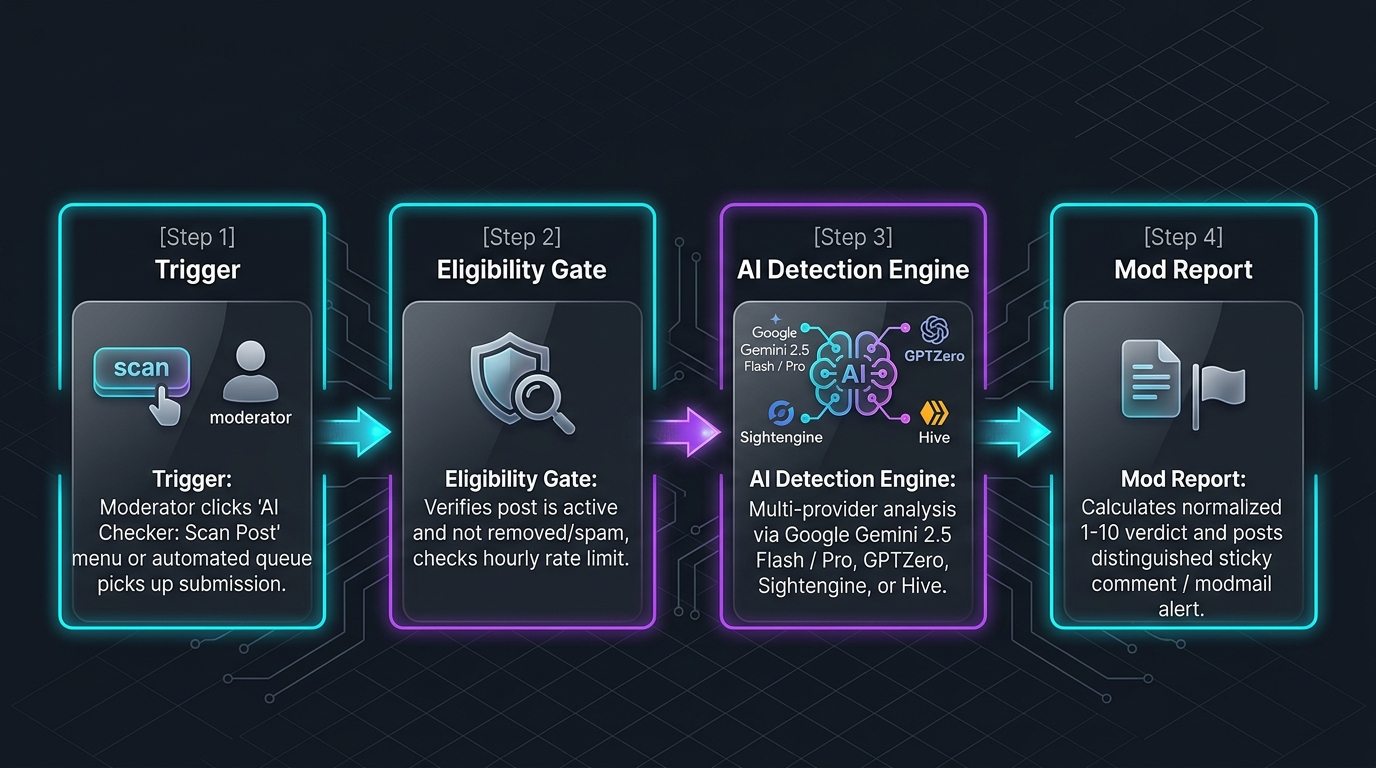
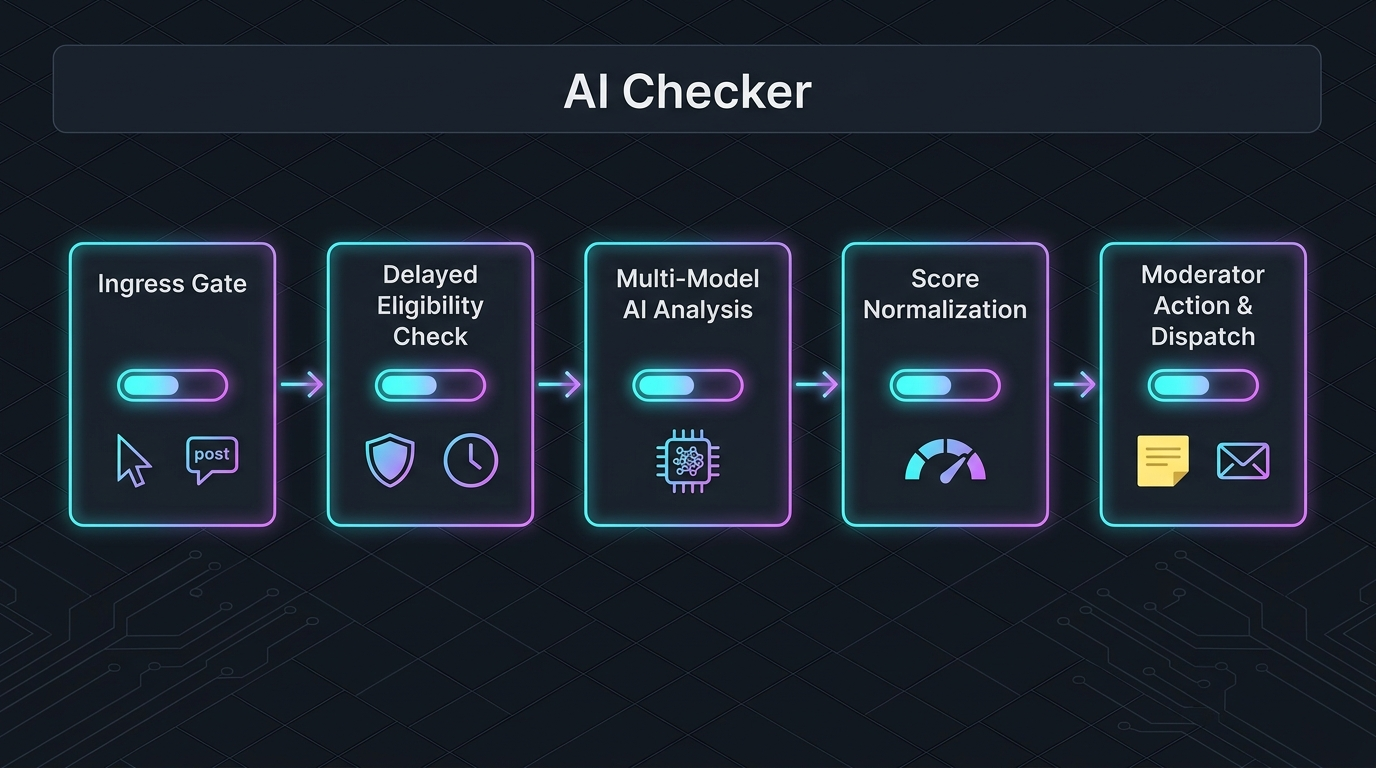
chore: update assets for ai-checker v0.0.84

Changed region(s): [[0.0312, 0.25, 0.9688, 0.875], [0.4062, 0.0938, 0.5938, 0.1562]]

diff --git a/ai-checker/readme.html b/ai-checker/readme.html
@@ -31,11 +31,12 @@
 <p>---</p>
 <h2>How It Works</h2>
 <p><a href="https://raw.githubusercontent.com/grantdb/reddit-app-legal/main/assets/flowcharts/ai-checker-flowchart.png">Logic Flowchart</a></p>
-<h3>Your Four-Step Workflow</h3>
-<p>1. <strong>Trigger</strong>: A moderator clicks <strong>AI Checker: Scan Post</strong> from a post menu, or auto-scan picks up a new submission.</p>
-<p>2. <strong>Verify</strong>: AI Checker confirms post eligibility, active status, and community hourly scan quota.</p>
-<p>3. <strong>Analyze</strong>: Post text or image media is transmitted to the configured AI analysis provider.</p>
-<p>4. <strong>Report</strong>: The returned confidence metric is normalized to a 1–10 rating and posted as a mod sticky or log.</p>
+<h3>Your Five-Step Workflow</h3>
+<p>1. <strong>Ingress Gate</strong>: A moderator clicks <strong>AI Checker: Scan Post</strong> from a post menu, or the background trigger schedules an automatic audit on new submissions.</p>
+<p>2. <strong>Delayed Eligibility Check</strong>: Verifies the post remains active and unremoved by AutoMod, checks moderator exemptions, and enforces hourly quota limits.</p>
+<p>3. <strong>Multi-Model AI Analysis</strong>: Securely transmits submission text or image media to the configured model (Google Gemini 2.5 Flash/Pro, GPTZero, Sightengine, or Hive).</p>
+<p>4. <strong>Score Normalization</strong>: Maps raw provider confidence metrics to a standardized 1–10 risk rating.</p>
+<p>5. <strong>Moderator Action & Dispatch</strong>: Posts a formatted sticky comment breakdown and delivers private modmail alerts if configured.</p>
 <p>---</p>
 <h2>Quick Setup</h2>
 <p>1. <strong>Install</strong>: Add <strong>AI Checker</strong> to your subreddit through the Reddit App Directory.</p>

diff --git a/ai-checker/wiki.html b/ai-checker/wiki.html
@@ -1,7 +1,7 @@
 <h1>AI Checker</h1>
 
 <p>Category: Security<br>
-Version: v0.0.83<br>
+Version: v0.0.84<br>
 Visibility: Public<br>
 Summary: Moderator-triggered AI detection engine. Upgraded to native Gemini 1.5 Flash for high-speed analysis.</p>
 
@@ -21,7 +21,7 @@ Summary: Moderator-triggered AI detection engine. Upgraded to native Gemini 1.5 
 <h2>Triggers and Activation</h2>
 <h3>Event Triggers</h3>
 <ul>
-<li>PostCreate: Delivered by Reddit event router to endpoint /internal/on-post-create.</li>
+<li>PostCreate: Subscribed in main.ts via Devvit.addTrigger({ event: 'PostCreate' }).</li>
 </ul>
 <h3>Menu Actions</h3>
 <ul>
@@ -90,11 +90,11 @@ Summary: Moderator-triggered AI detection engine. Upgraded to native Gemini 1.5 
 </ul>
 
 <h2>Version History</h2>
+<p>0.0.84 — 2026-09-02<br>
+Standard fleet synchronization and maintenance.</p>
 <p>0.0.83 — 2026-08-31<br>
 Standard fleet synchronization and maintenance.</p>
 <p>0.0.82 — 2026-08-31<br>
-Standard fleet synchronization and maintenance.</p>
-<p>0.0.81 — 2026-08-15<br>
 Standard fleet synchronization and maintenance.</p>
 
 <h2>Links</h2>

diff --git a/ai-checker/README.md b/ai-checker/README.md
@@ -51,12 +51,13 @@ AI Checker helps moderation teams identify and evaluate synthetic text and AI-ge
 
 ![Logic Flowchart](https://raw.githubusercontent.com/grantdb/reddit-app-legal/main/assets/flowcharts/ai-checker-flowchart.png)
 
-### Your Four-Step Workflow
+### Your Five-Step Workflow
 
-1. **Trigger**: A moderator clicks **AI Checker: Scan Post** from a post menu, or auto-scan picks up a new submission.
-2. **Verify**: AI Checker confirms post eligibility, active status, and community hourly scan quota.
-3. **Analyze**: Post text or image media is transmitted to the configured AI analysis provider.
-4. **Report**: The returned confidence metric is normalized to a 1–10 rating and posted as a mod sticky or log.
+1. **Ingress Gate**: A moderator clicks **AI Checker: Scan Post** from a post menu, or the background trigger schedules an automatic audit on new submissions.
+2. **Delayed Eligibility Check**: Verifies the post remains active and unremoved by AutoMod, checks moderator exemptions, and enforces hourly quota limits.
+3. **Multi-Model AI Analysis**: Securely transmits submission text or image media to the configured model (Google Gemini 2.5 Flash/Pro, GPTZero, Sightengine, or Hive).
+4. **Score Normalization**: Maps raw provider confidence metrics to a standardized 1–10 risk rating.
+5. **Moderator Action & Dispatch**: Posts a formatted sticky comment breakdown and delivers private modmail alerts if configured.
 
 ---
 

diff --git a/ai-checker/wiki.md b/ai-checker/wiki.md
@@ -1,7 +1,7 @@
 # AI Checker
 
 Category: Security  
-Version: v0.0.83  
+Version: v0.0.84  
 Visibility: Public  
 Summary: Moderator-triggered AI detection engine. Upgraded to native Gemini 1.5 Flash for high-speed analysis.
 
@@ -78,13 +78,13 @@ This app utilizes Reddit Redis storage for state management, caching, and rate l
 - Ensure all required app settings and API keys are properly configured in Mod Tools.
 
 ## Version History
+0.0.84 — 2026-09-02
+- Standard fleet synchronization and maintenance.
+
 0.0.83 — 2026-08-31
 - Standard fleet synchronization and maintenance.
 
 0.0.82 — 2026-08-31
-- Standard fleet synchronization and maintenance.
-
-0.0.81 — 2026-08-15
 - Standard fleet synchronization and maintenance.
 
 ## Links
